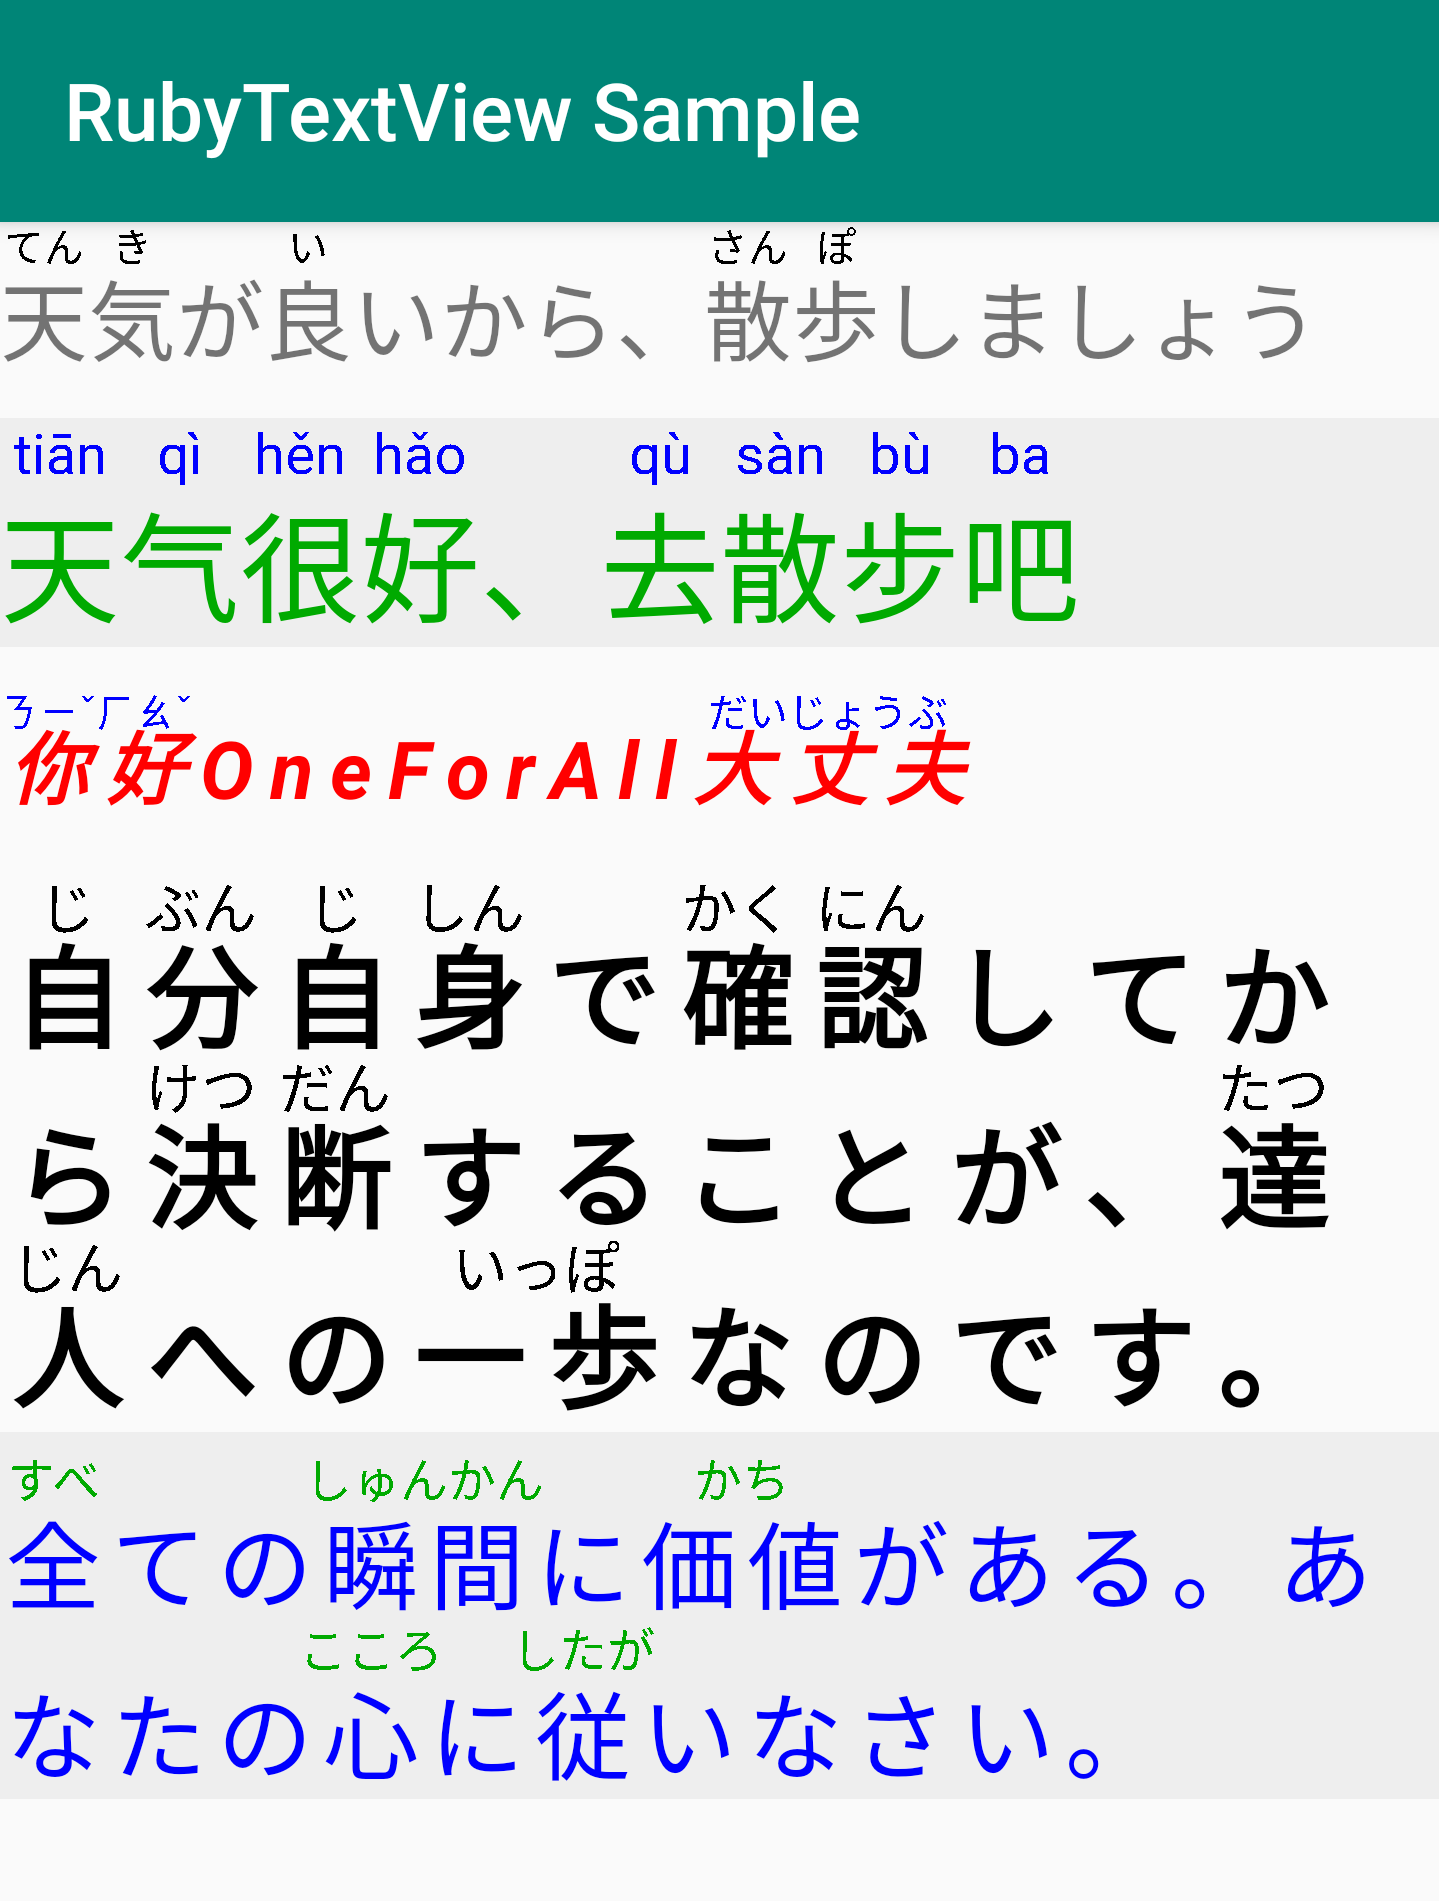
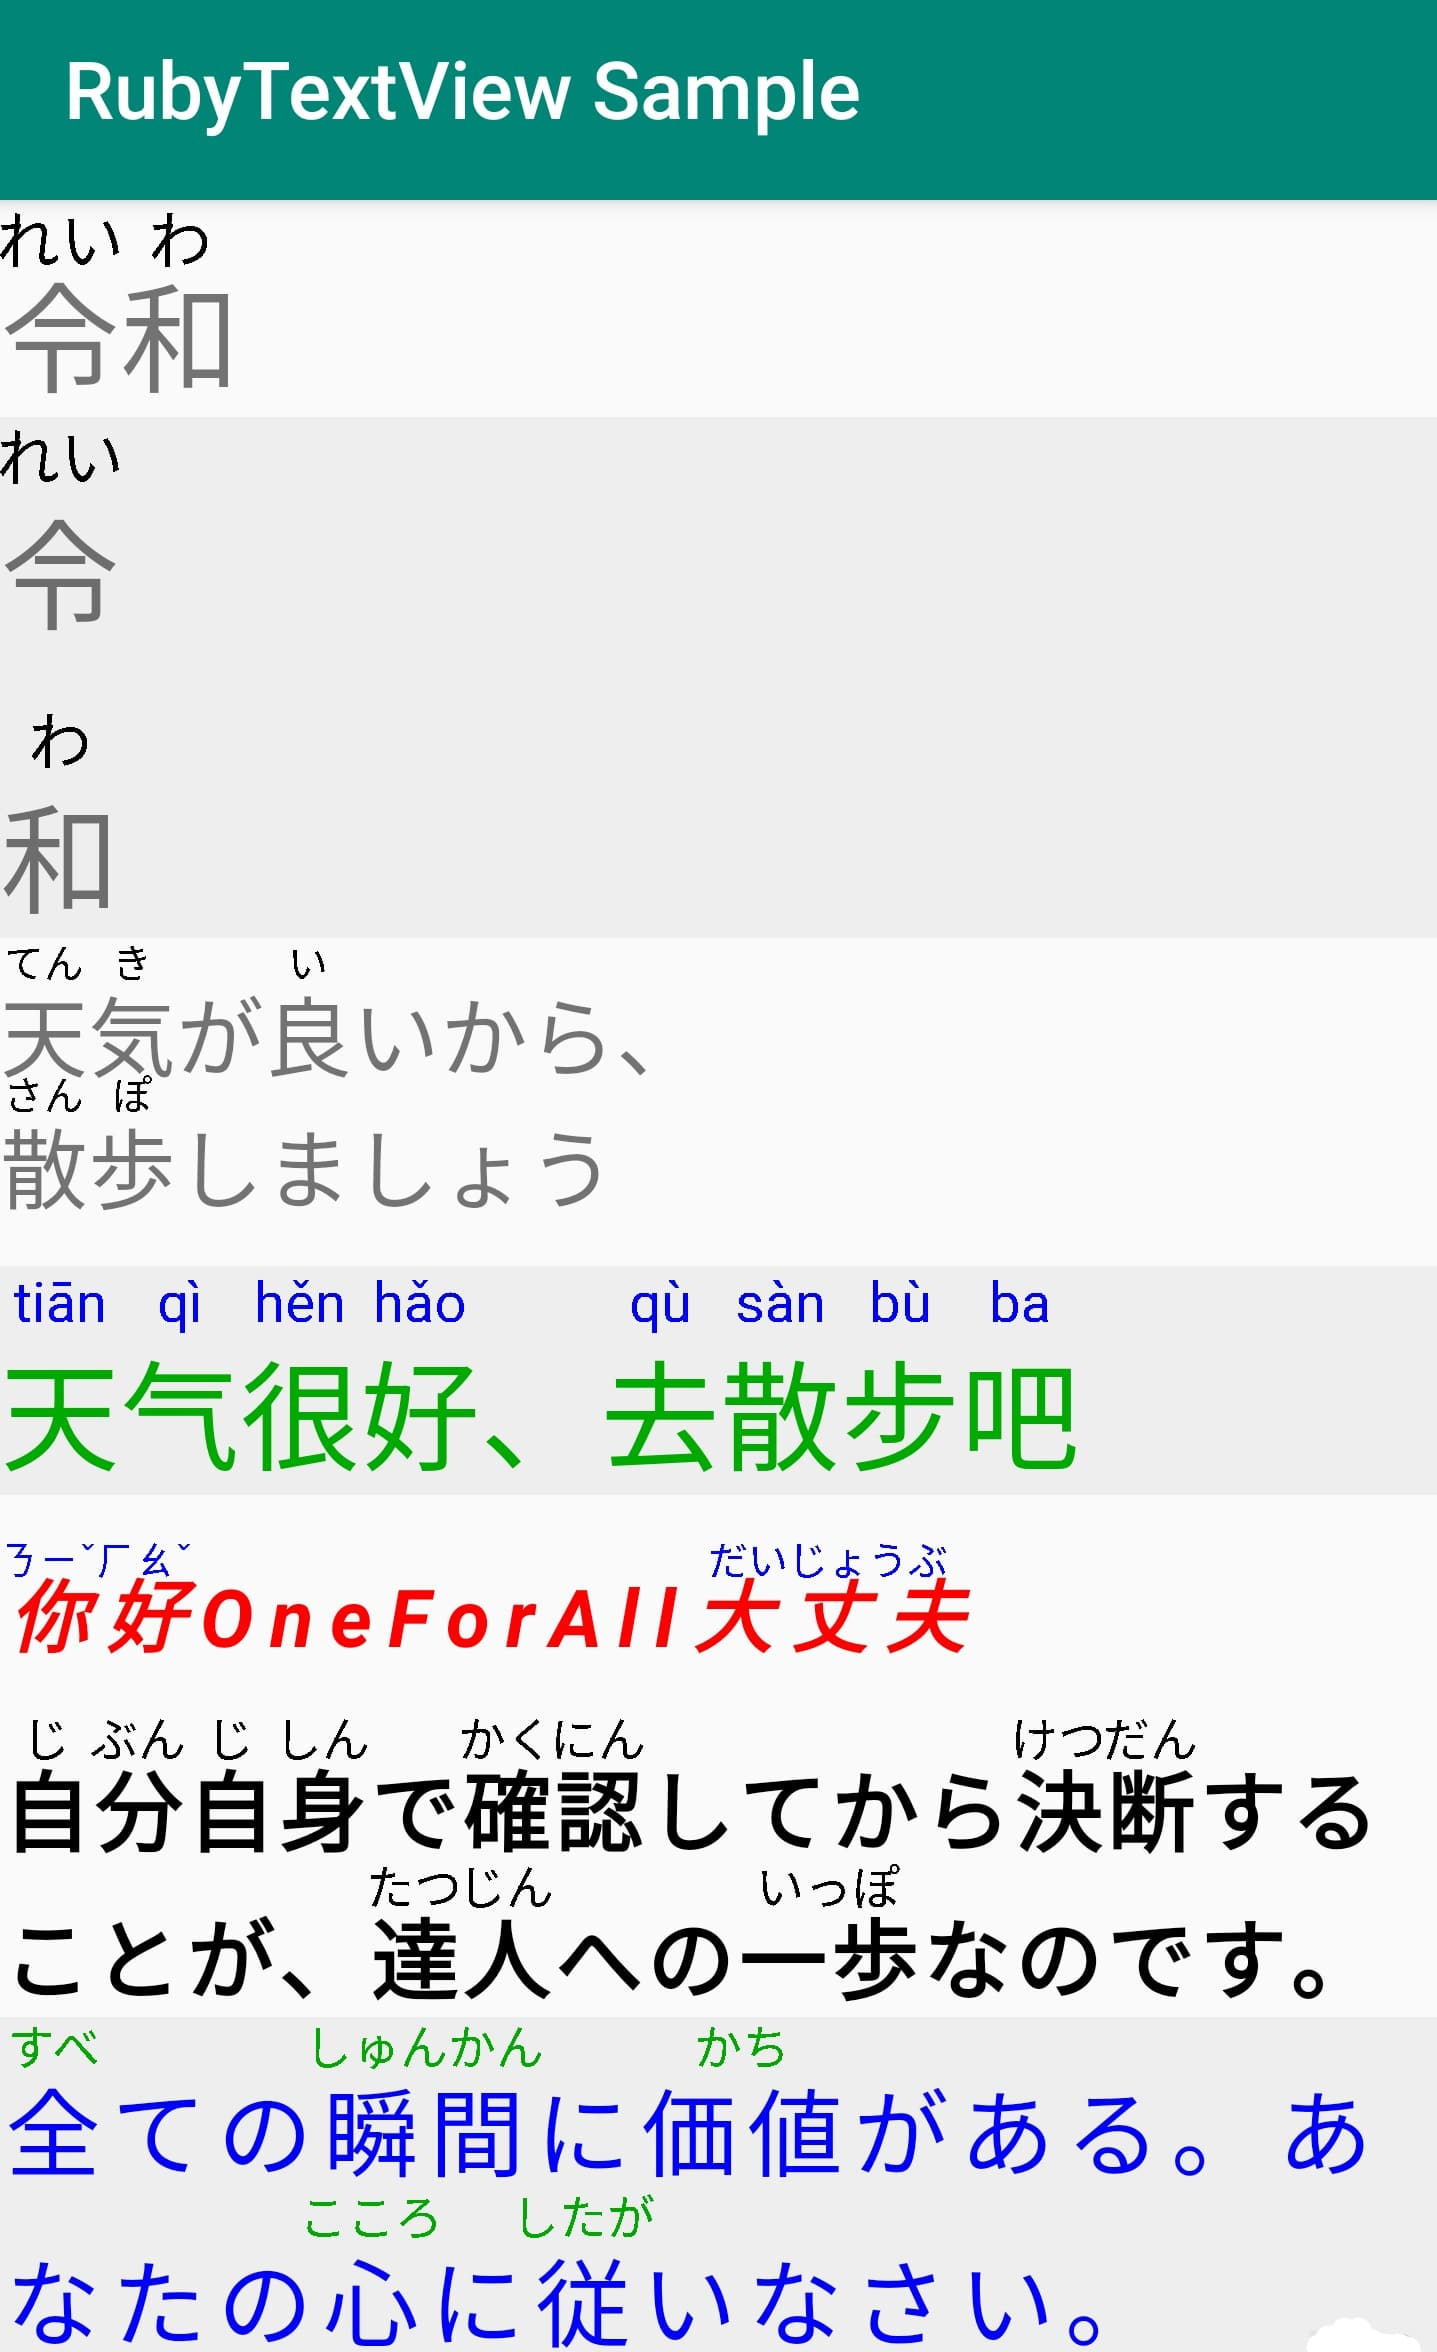
Update `README.md`

diff --git a/rubytextview/src/main/java/me/weilunli/views/RubyTextView.java b/rubytextview/src/main/java/me/weilunli/views/RubyTextView.java
@@ -93,6 +93,7 @@ public class RubyTextView extends AppCompatTextView {
 
     @Override
     protected void onMeasure(int widthMeasureSpec, int heightMeasureSpec) {
+
         int width = MeasureSpec.getSize(widthMeasureSpec);
         float cur_x = 0;
         int lineCount = 1;
@@ -173,6 +174,7 @@ public class RubyTextView extends AppCompatTextView {
 
     private void updateLineheight(){
         lineheight = getTextSize() + getRubyTextSize() + getLineSpacingExtra() + getSpacing();
+        firstLineheight = lineheight - getLineSpacingExtra();
     }
 
     public void setCombinedText(String text) {

diff --git a/README.md b/README.md
@@ -5,11 +5,12 @@ RubyTextView is an android view that can create TextView with ruby text, like fu
 
 ## Preview
 <img src="https://github.com/b84330808/RubyTextView/blob/master/screen_shot/preview.jpg" alt="preview" width="300"/>
+<img src="https://github.com/b84330808/RubyTextView/blob/master/screen_shot/note.jpg" alt="preview" width="500"/>
 
 
 ## Gradle
 ```java
-compile 'me.weilunli.views:rubytextview:1.2.0'
+compile 'me.weilunli.views:rubytextview:1.3.1'
 ```
 ## How to use
 ### XML Layout 
@@ -58,8 +59,8 @@ rtv.setCombinedText("全|すべ ての 瞬間|しゅんかん に 価値|かち 
     setLetterSpacing(0.1f);
 ```
 ## Attributes
-- `app:combinedText `: The text and ruby text. e.g.`你|nǐ  好|hǎo` 
-- `app:rubyTextSize `: The size of ruby text.
+- `app:combinedText`: The text and ruby text. e.g.`你|nǐ  好|hǎo` 
+- `app:rubyTextSize`: The size of ruby text.
 - `app:rubyTextColor`: The color of ruby text.
 - `app:spacing`: The spacing between text and ruby text.
 
